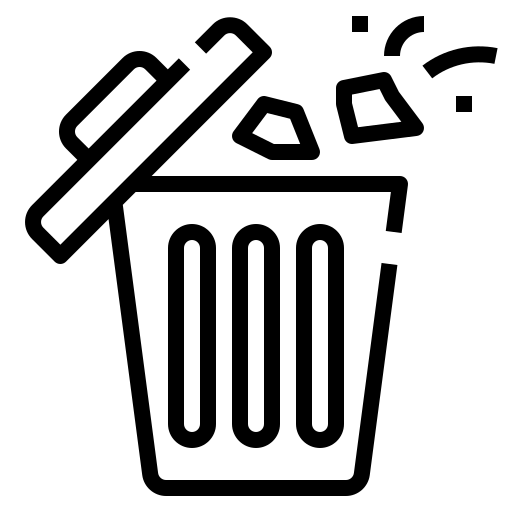
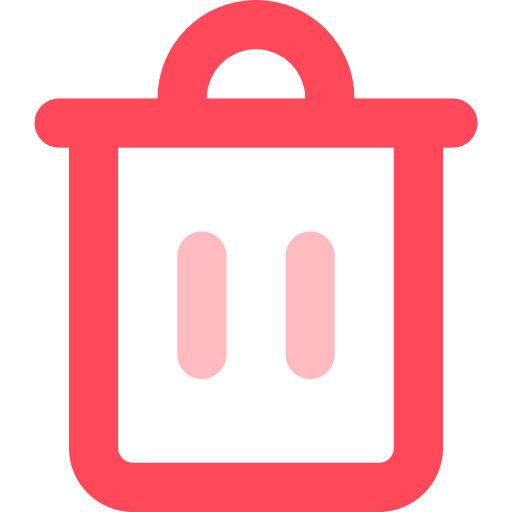
store components in it's folder

diff --git a/src/components/GalleryItem/GalleryItem.js b/src/components/GalleryItem/GalleryItem.js
@@ -80,7 +80,7 @@ class GalleryItem extends Component {
                 <div className="deleteBtn">
                     <span className="icon-heart"
                         onClick={this.swal}>
-                        <img src="images/interface.png" width="30" height="30" ></img>
+                        <img src="images/bin.png" width="30" height="30" ></img>
                     </span>
                 </div>
                 <div>

diff --git a/src/components/GalleryList/GalleryList.js b/src/components/GalleryList/GalleryList.js
@@ -1,5 +1,5 @@
 import React, { Component } from "react";
-import GalleryItem from './GalleryItem';
+import GalleryItem from '../GalleryItem/GalleryItem';
 
 class GalleryList extends Component { //create an class to store data
     render() { //append data to DOM with render

diff --git a/src/components/App/App.js b/src/components/App/App.js
@@ -3,7 +3,7 @@ import axios from 'axios'
 import '../vendors/bootstrap.css';
 import './App.css';
 
-import GalleryList from '../GalleryList';
+import GalleryList from '../GalleryList/GalleryList';
 import GalleryForm from '../GalleryForm/GalleryForm';
 
 
